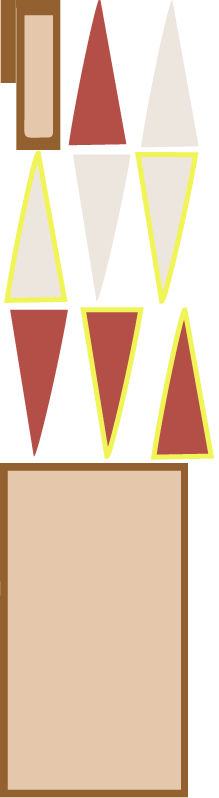
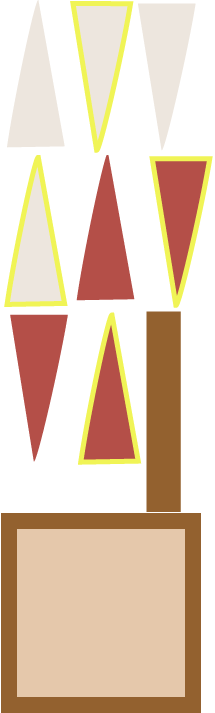
#62 Players' goals og the side completed + middle of the board and background

diff --git a/core/src/com/progark/emojimon/gameScreens/GameScreenStandard.java b/core/src/com/progark/emojimon/gameScreens/GameScreenStandard.java
@@ -1,18 +1,15 @@
 package com.progark.emojimon.gameScreens;
 
 import com.badlogic.gdx.ApplicationAdapter;
-import com.badlogic.gdx.Game;
 import com.badlogic.gdx.Gdx;
 import com.badlogic.gdx.Screen;
 import com.badlogic.gdx.graphics.GL20;
 import com.badlogic.gdx.graphics.OrthographicCamera;
 import com.badlogic.gdx.graphics.Texture;
 import com.badlogic.gdx.graphics.g2d.NinePatch;
-import com.badlogic.gdx.graphics.g2d.Sprite;
 import com.badlogic.gdx.graphics.g2d.SpriteBatch;
 import com.badlogic.gdx.graphics.g2d.TextureAtlas;
 import com.badlogic.gdx.graphics.g2d.TextureRegion;
-import com.badlogic.gdx.math.Rectangle;
 import com.badlogic.gdx.scenes.scene2d.InputEvent;
 import com.badlogic.gdx.scenes.scene2d.Stage;
 import com.badlogic.gdx.scenes.scene2d.ui.Container;
@@ -26,8 +23,6 @@ import com.badlogic.gdx.scenes.scene2d.ui.TextButton;
 import com.badlogic.gdx.scenes.scene2d.ui.VerticalGroup;
 import com.badlogic.gdx.scenes.scene2d.utils.ClickListener;
 import com.badlogic.gdx.scenes.scene2d.utils.NinePatchDrawable;
-import com.badlogic.gdx.scenes.scene2d.utils.SpriteDrawable;
-import com.badlogic.gdx.utils.Scaling;
 import com.badlogic.gdx.utils.viewport.FitViewport;
 import com.badlogic.gdx.utils.viewport.Viewport;
 import com.progark.emojimon.Emojimon;
@@ -38,8 +33,6 @@ import com.progark.emojimon.model.Position;
 
 
 import java.util.List;
-
-import sun.rmi.runtime.Log;
 
 public class GameScreenStandard extends ApplicationAdapter implements Screen {
 
@@ -62,6 +55,9 @@ public class GameScreenStandard extends ApplicationAdapter implements Screen {
     private TextureRegion triUpRed;
     private TextureRegion triDownRed;
 
+    private TextureRegion squareBoard;
+    private TextureRegion line;
+
     private Label debugLabel;
 
     float sw = Gdx.graphics.getWidth();
@@ -76,10 +72,12 @@ public class GameScreenStandard extends ApplicationAdapter implements Screen {
         this.gameBoardController = new GameBoardController();//need to be changed to the singelton reference
         this.gameBoardController.createStandardGameBoard();
 
+        // Get UI skin
         atlas = new TextureAtlas(Gdx.files.internal("skin/uiskin.atlas"));
         skin = new Skin(Gdx.files.internal("skin/uiskin.json"), atlas);
         skin.getFont("font").getData().setScale(1.5f,1.5f);
 
+        // Fix Camera and viewport
         camera = new OrthographicCamera();
         viewport = new FitViewport(Gdx.graphics.getWidth(), Gdx.graphics.getHeight(), camera);
         viewport.apply();
@@ -87,6 +85,7 @@ public class GameScreenStandard extends ApplicationAdapter implements Screen {
         camera.update();
         stage = new Stage(viewport);
 
+        // Add regions used in the game
         emojiAtlas = new TextureAtlas(Gdx.files.internal("Emojis/Output/emojiatlas.atlas"));
         boardAtlas = new TextureAtlas(Gdx.files.internal("Board/Output/board.atlas"));
 
@@ -95,6 +94,8 @@ public class GameScreenStandard extends ApplicationAdapter implements Screen {
         triUpRed = boardAtlas.findRegion("Triangle-red-up");
         triDownRed = boardAtlas.findRegion("Triangle-red-down");
 
+        squareBoard = boardAtlas.findRegion("board");
+        line = boardAtlas.findRegion("line");
 
         cells = new Image(new Texture(Gdx.files.internal("blacktri3.png")));
         //triangle.setDrawable(new SpriteDrawable(new Sprite(emojiRegion)));
@@ -106,19 +107,20 @@ public class GameScreenStandard extends ApplicationAdapter implements Screen {
     }
 
     private Container createGameBoard() {
-        // Create background
-        NinePatch patch = new NinePatch(boardAtlas.findRegion("board0"),
-                3, 3, 3, 3);
-        NinePatchDrawable background = new NinePatchDrawable(patch);
-
         // Create GameBoardContainer
         Container gameBoardContainer = new Container();
-        gameBoardContainer.setBackground(background);
         gameBoardContainer.setSize(sw * 0.8f, sh);
         gameBoardContainer.setPosition(sw * 0.1f, 0);
         gameBoardContainer.fillX();
         gameBoardContainer.fillY();
 
+        // Create background
+        NinePatch patch = new NinePatch(squareBoard,
+                3, 3, 3, 3);
+        NinePatchDrawable background = new NinePatchDrawable(patch);
+        gameBoardContainer.setBackground(background);
+
+        // Create board tables
         Table gameBoard = new Table();
 
         Table out1 = new Table();
@@ -126,6 +128,7 @@ public class GameScreenStandard extends ApplicationAdapter implements Screen {
         Table out0 = new Table();
         Table home0 = new Table();
 
+        // Create triangles
         int boardSize = gameBoardController.getBoardSize();
         int trianglesPerZone = boardSize / 4;
 
@@ -136,7 +139,7 @@ public class GameScreenStandard extends ApplicationAdapter implements Screen {
 
         // Add dieded pieces
         Table barField = new Table();
-        Image barFieldImage = new Image(boardAtlas.findRegion("finish0"));
+        Image barFieldImage = new Image(squareBoard);
         barFieldImage.addListener(new ClickListener() {
             @Override
             public void clicked(InputEvent event, float x, float y) {
@@ -146,12 +149,12 @@ public class GameScreenStandard extends ApplicationAdapter implements Screen {
         });
         barField.add(barFieldImage).size(sw * 0.05f, sw * 0.05f);
 
-        Image img2 = new Image(boardAtlas.findRegion("line0"));
-        Image middle1 = new Image(boardAtlas.findRegion("line0"));
+        Image middle1 = new Image(line);
+        Image middle2 = new Image(line);
         float middleBoardHeight = (sh- sw * 0.05f)/2;
         // first row
         gameBoard.add(out1);
-        gameBoard.add(img2).size(sw * 0.05f, middleBoardHeight).expand().center(); //middle of the board
+        gameBoard.add(middle1).size(sw * 0.05f, middleBoardHeight).expand().center(); //middle of the board
         gameBoard.add(home1);
         gameBoard.row();
         // second row
@@ -161,7 +164,7 @@ public class GameScreenStandard extends ApplicationAdapter implements Screen {
         gameBoard.row();
         // third row
         gameBoard.add(out0);
-        gameBoard.add(middle1).size(sw * 0.05f, middleBoardHeight).expand().center(); //middle of the board
+        gameBoard.add(middle2).size(sw * 0.05f, middleBoardHeight).expand().center(); //middle of the board
         gameBoard.add(home0);
 
         ScrollPane sp = new ScrollPane(gameBoard);
@@ -172,6 +175,8 @@ public class GameScreenStandard extends ApplicationAdapter implements Screen {
     }
 
     private Container createSideMenu() {
+        // Side Menu contains back button, emojiturn and throw dice button
+
         Container sideMenuContainer = new Container();
         sideMenuContainer.setSize(sw * 0.1f, sh);
         sideMenuContainer.setPosition(0, 0);
@@ -180,16 +185,13 @@ public class GameScreenStandard extends ApplicationAdapter implements Screen {
         Table sideMenu = new Table();
 
         // Add leave button
-        TextButton backButton = new TextButton("Back", skin);
-
-        backButton.addListener(new ClickListener() {
+        sideMenu.add(createButton("Back", new ClickListener() {
             @Override
             public void clicked(InputEvent event, float x, float y) {
                 game.setScreen(new MainMenuScreen(game));
             }
-        });
+        })).expand().uniform(); sideMenu.row();
 
-        sideMenu.add(backButton).expand().uniform(); sideMenu.row();//.pad(10);
 
         // Add Turn emoji
         TextureAtlas.AtlasRegion emojiRegion = emojiAtlas.findRegion(GameManager.GetInstance().getEmoji());
@@ -201,10 +203,7 @@ public class GameScreenStandard extends ApplicationAdapter implements Screen {
         sideMenu.add(debugLabel); sideMenu.row().pad(10);
 
         // Add throw dice button
-
-        TextButton diceButton = new TextButton("Throw\nDice", skin);
-        //diceButton.setScale(3f);
-        diceButton.addListener(new ClickListener() {
+        sideMenu.add(createButton("Throw\nDice", new ClickListener() {
             @Override
             public void clicked(InputEvent event, float x, float y) {
                 gameBoardController.rollDice();
@@ -212,14 +211,14 @@ public class GameScreenStandard extends ApplicationAdapter implements Screen {
                 debugLabel.setText(gameBoardController.getDieList().get(0).getValue() + " " + gameBoardController.getDieList().get(1).getValue());
                 // TODO begrenes hvor mange ganger man kaster terning
             }
-        });
-        sideMenu.add(diceButton).expand().uniform();
+        })).expand().uniform();
+
         sideMenuContainer.setActor(sideMenu);
         return sideMenuContainer;
     }
 
 
-    private Container createSideBoard(){
+    private Container createPlayerGoals(){
         Container sideBoardContainer = new Container();
 
         sideBoardContainer.setSize(sw * 0.1f, sh);
@@ -229,45 +228,42 @@ public class GameScreenStandard extends ApplicationAdapter implements Screen {
         Table sideBoard = new Table();
 
         // Add player1's goal
-        Table player1goal = new Table();
-
-        Image player1goalImage = new Image(boardAtlas.findRegion("finish0"));
-
-        player1goalImage.addListener(new ClickListener() {
+        sideBoard.add(createGoal(new ClickListener() {
             @Override
             public void clicked(InputEvent event, float x, float y) {
                 debugLabel.setText("player1goal");
-
             }
-        });
-        player1goal.add(player1goalImage).size(sw * 0.1f, sh/2).expand().center();
+        }));
 
-        sideBoard.add(player1goal);
         sideBoard.row();
 
-
         // Add player0's goal
-        Table player0goal = new Table();
-
-        Image img0 = new Image(boardAtlas.findRegion("finish0"));
-        img0.addListener(new ClickListener() {
+        sideBoard.add(createGoal(new ClickListener() {
             @Override
             public void clicked(InputEvent event, float x, float y) {
                 debugLabel.setText("player0goal");
-                List<Move> movelist = gameBoardController.getMoves(GameManager.GetInstance().getLocalPlayer());
-                if(GameManager.GetInstance().isItLocalPlayerTurn()){
-
-                }
-
             }
-        });
-        player0goal.add(img0).size(sw * 0.1f, sh/2).expand().center();
-        sideBoard.add(player0goal);
+        }));
 
         sideBoardContainer.setActor(sideBoard);
+
         return sideBoardContainer;
     }
 
+    private Table createGoal(ClickListener listener){
+        Table player0goal = new Table();
+
+        Image player0goalImage = new Image(squareBoard);
+        player0goalImage.addListener(listener);
+        player0goal.add(player0goalImage).size(sw * 0.1f, sh/2).expand().center();
+        return player0goal;
+    }
+
+    private TextButton createButton(String buttonText, ClickListener listener){
+        TextButton button = new TextButton(buttonText, skin);
+        button.addListener(listener);
+        return button;
+    }
 
     @Override
     public void show() {
@@ -275,7 +271,7 @@ public class GameScreenStandard extends ApplicationAdapter implements Screen {
         //stage.setDebugAll(true);
         stage.addActor(createSideMenu());
         stage.addActor(createGameBoard());
-        stage.addActor(createSideBoard());
+        stage.addActor(createPlayerGoals());
 
     }
 
